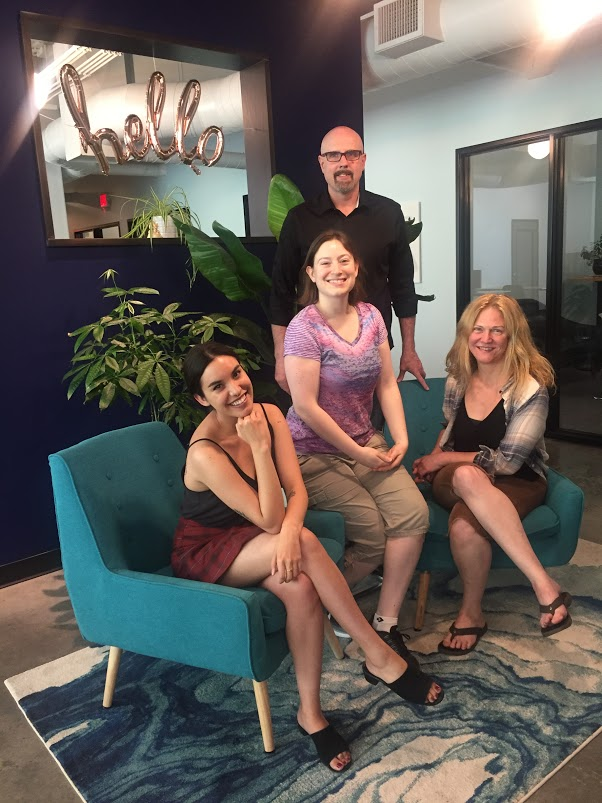
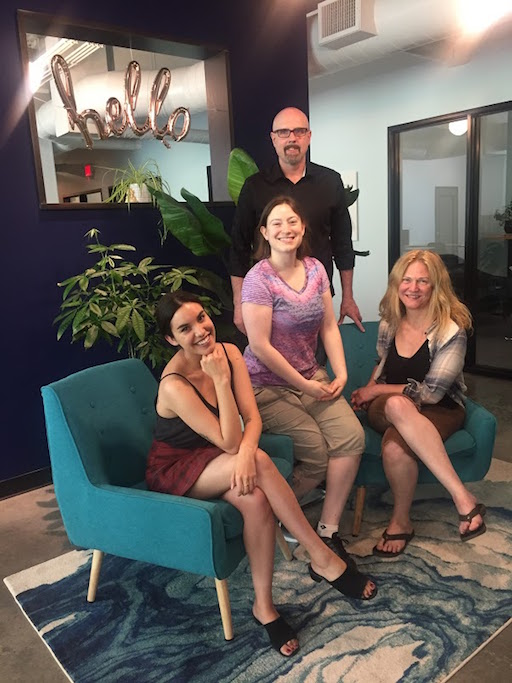
About-Us updates inc photos and anim

diff --git a/about-us.html b/about-us.html
@@ -19,39 +19,34 @@
 <body>
     <nav id="nav">
         <ul>
-            <li><img src="images/turducken_logo_150.png" style="height: 50px; vertical-align: middle"></li>
+            <li><a href="login.html"><img src="images/turducken_logo_150.png" style="height: 50px; vertical-align: middle"></a></li>
             <li><a href="about-us.html">About Us</a></li>
             <li>Settings</li>
-            <li>Logout</li>
+            <li><a href="login.html">Login</a></li>
         </ul>
     </nav>
     <h1> Hey, we're team Turducken </h1>
     <div id="frameStuff">
         <div id="frame">
-            <img src="./images/teamB.jpg" alt="Turducken team picture">
+            <div id="photo-spot"></div>
         </div>
     </div>
     <div id="team">
         <div class="member">
             <h2> Stephanie </h2>
-            <p>Stephanie loves hiking and camping in the great outdoors with her family, reading and watching science fiction,
-                and sleeping in as much as is allowed by her four-year-old son. She has yet to grow carrots longer than an
-                inch, but has had surprising success with citrus trees in the pacific northwest. Someday she hopes to build
-                the educational game of her dreams.</p>
-        </div>
-        <div class="member">
-            <h2> Mark </h2>
-            <p>Mark is a technology and product management executive with a passion for creating products that delight customers
-                and drive revenue growth. When he’s not at work, Mark loves to surf, cycle, skateboard, play volleyball and
-                spend as much time as possible with his two children, Milo and Violet.</p>
-        </div>
-        <div class="member">
-            <h2> Cynthia </h2>
-            <p>Eats salad for breakfast. Philosophizes over beer. Dreams of finding time to play Viva Pinata.</p>
+            <p>Stephanie loves hiking and camping in the great outdoors with her family, reading and watching science fiction, and sleeping in as much as is allowed by her four-year-old son. She has yet to grow carrots longer than an inch, but has had surprising success with citrus trees in the pacific northwest. Someday she hopes to build the educational game of her dreams.</p>
         </div>
         <div class="member">
             <h2> Haley </h2>
             <p> Easily manipulated by dogs and fantastic at killing house plants. Nerds out over Python.</p>
+        </div>
+        <div class="member">
+            <h2> Mark </h2>
+            <p>Mark is a technology and product management executive with a passion for creating products that delight customers and drive revenue growth. When he’s not at work, Mark loves to surf, cycle, skateboard, play volleyball and spend as much time as possible with his two children, Milo and Violet.</p>
+        </div>
+        <div class="member">
+            <h2> Cynthia </h2>
+            <p>Eats salad for breakfast. Philosophizes over beer. Dreams of finding time to play Viva Pinata.</p>
         </div>
     </div>
     <script src="js/turducken.js"></script>

diff --git a/css/aboutUs.css b/css/aboutUs.css
@@ -1,15 +1,34 @@
-img {
+#photo-spot {
     display: block;
-    max-width: 85%;
-    max-height: 500px;
+    max-width: 277px;
+    max-height: 370px;
+    min-width: 277px;
+    min-height: 370px;
     margin: 0 auto;
   /* this code is from codePen https://codepen.io/chris22smith/pen/PbBwjp */
     border:solid 2px;
     border-bottom-color: grey;
     border-left-color:grey;
     border-right-color:grey;
-    border-top-color:lightgrey;   
+    border-top-color:lightgrey;
+    background-image: url("../images/teamB-b.jpg");
+    transition: background-image 2s ease-in 3s;
 }
+
+/*/*#team-photo {
+    z-index: 1;
+    /*transition: top 2s ease, ease-out 4s ease;*/
+/*}*/
+
+/*#silly-photo {
+    z-index: 3;
+}*/
+
+#photo-spot:hover {
+    background-image: url("../images/sillyGroupPhoto-b.jpg");
+    /*z-index: 1;*/
+}
+
 
 #frame {
  background-color:#ddc;
